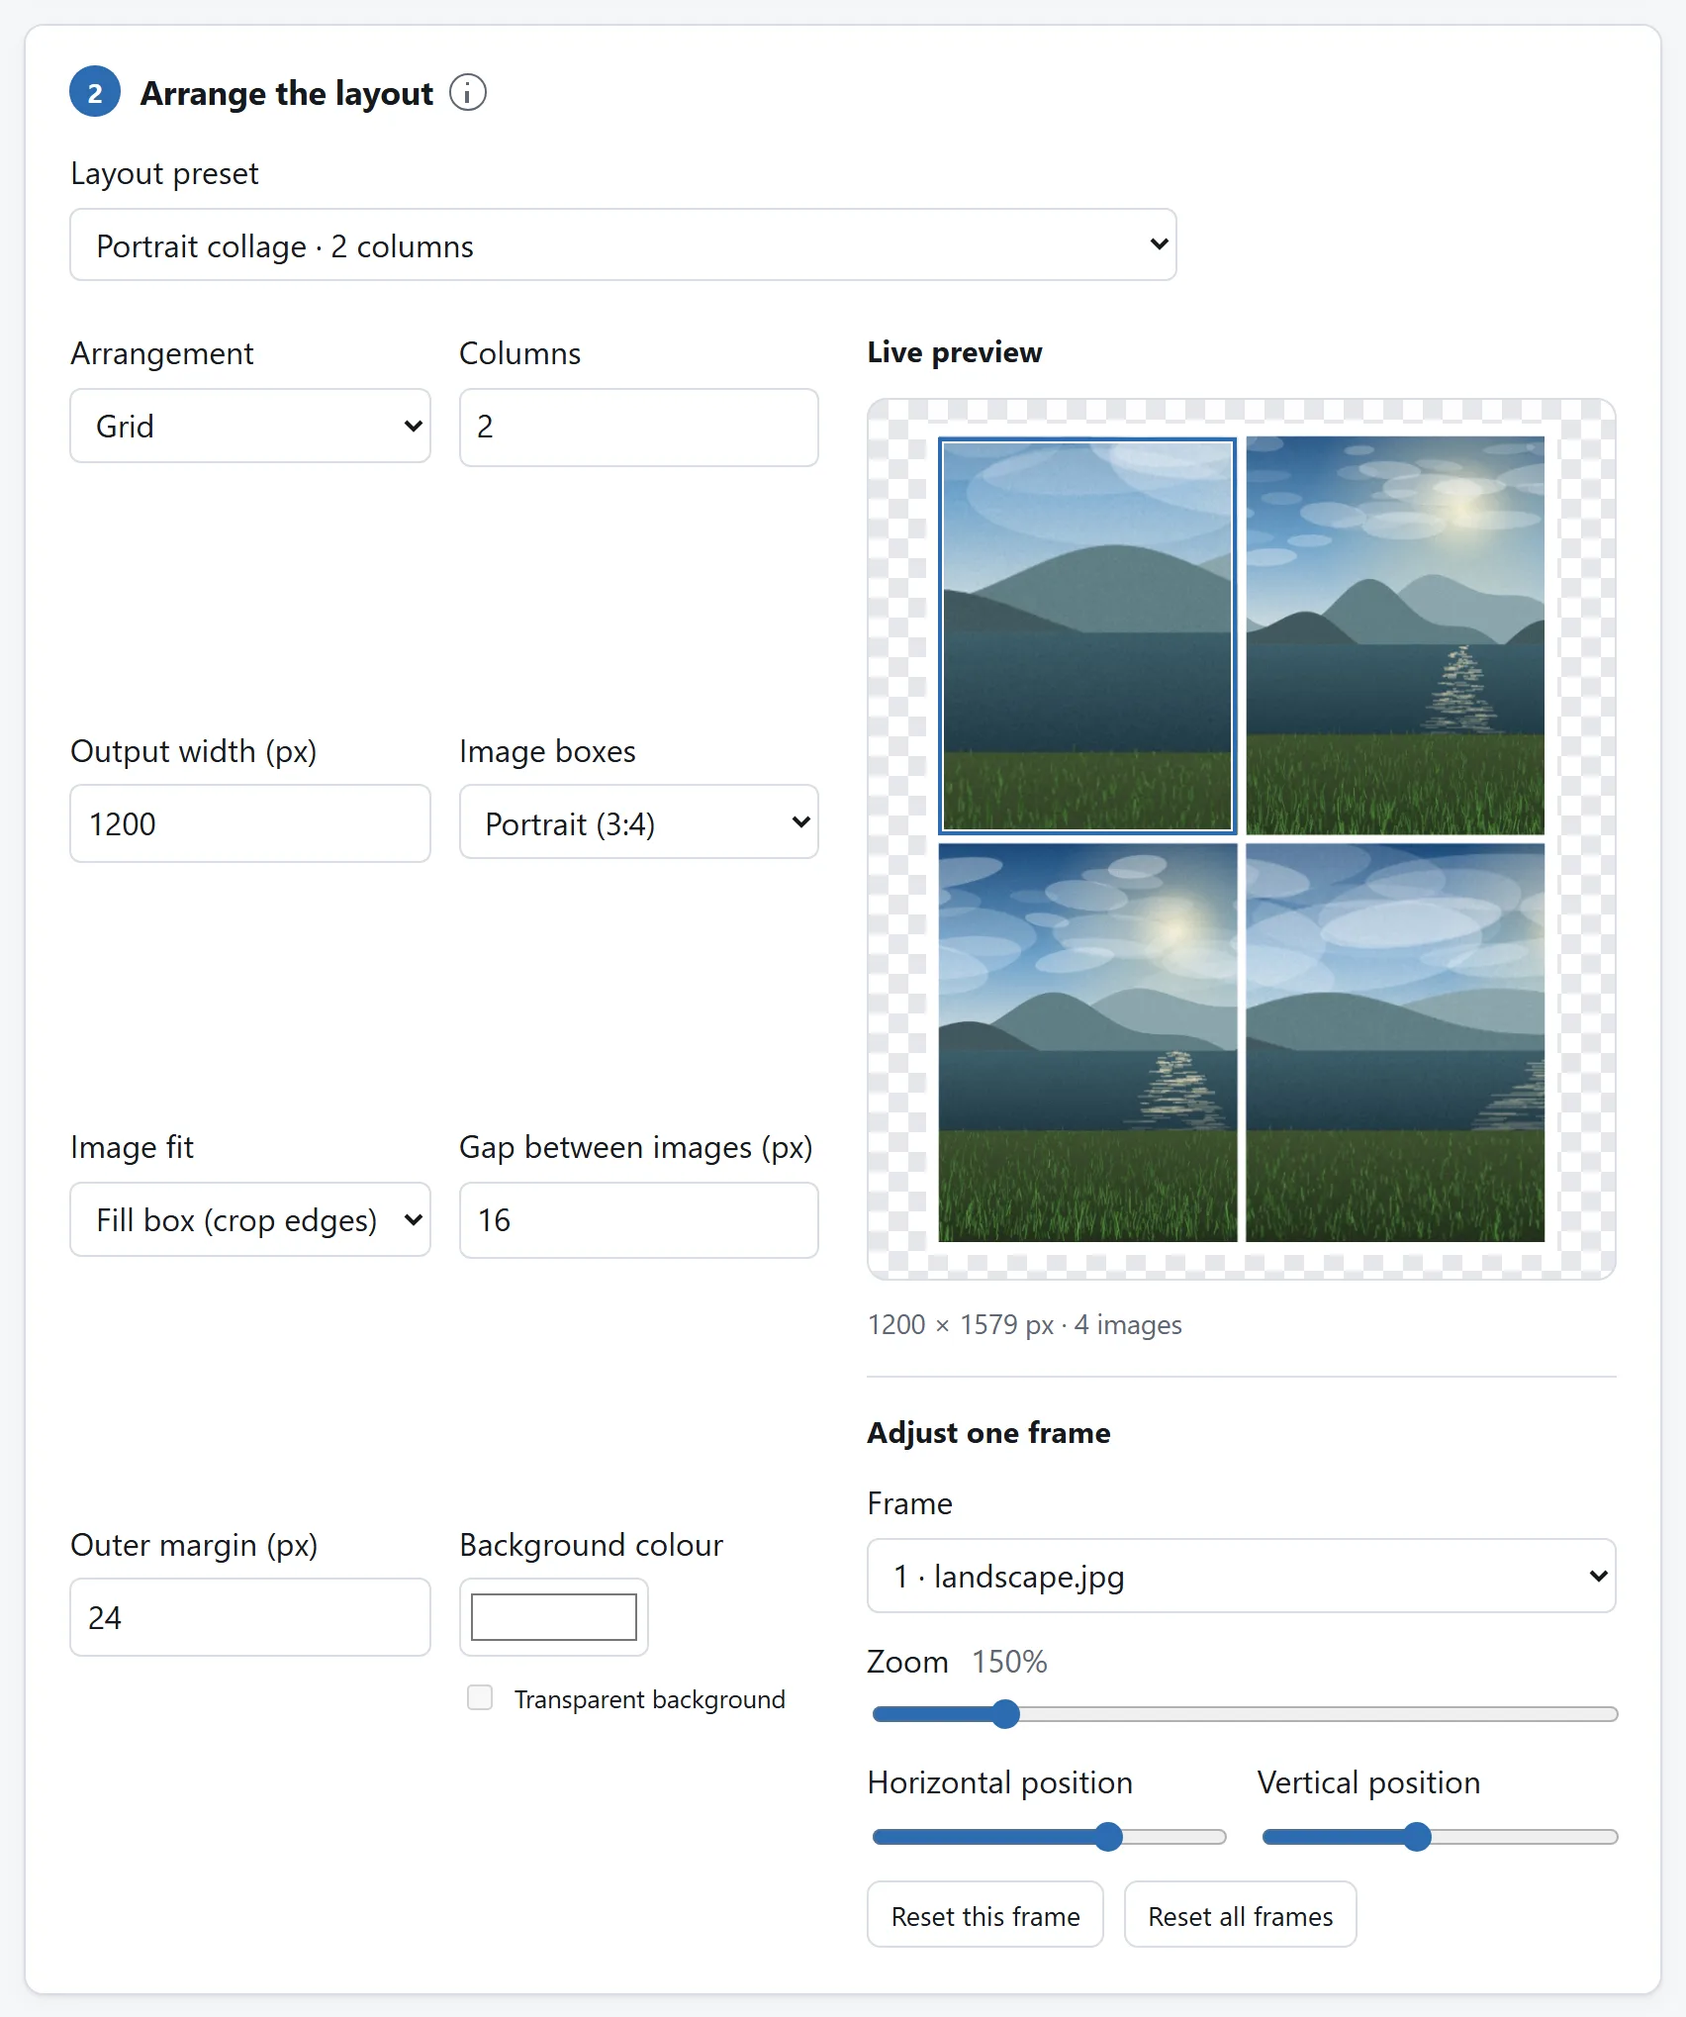
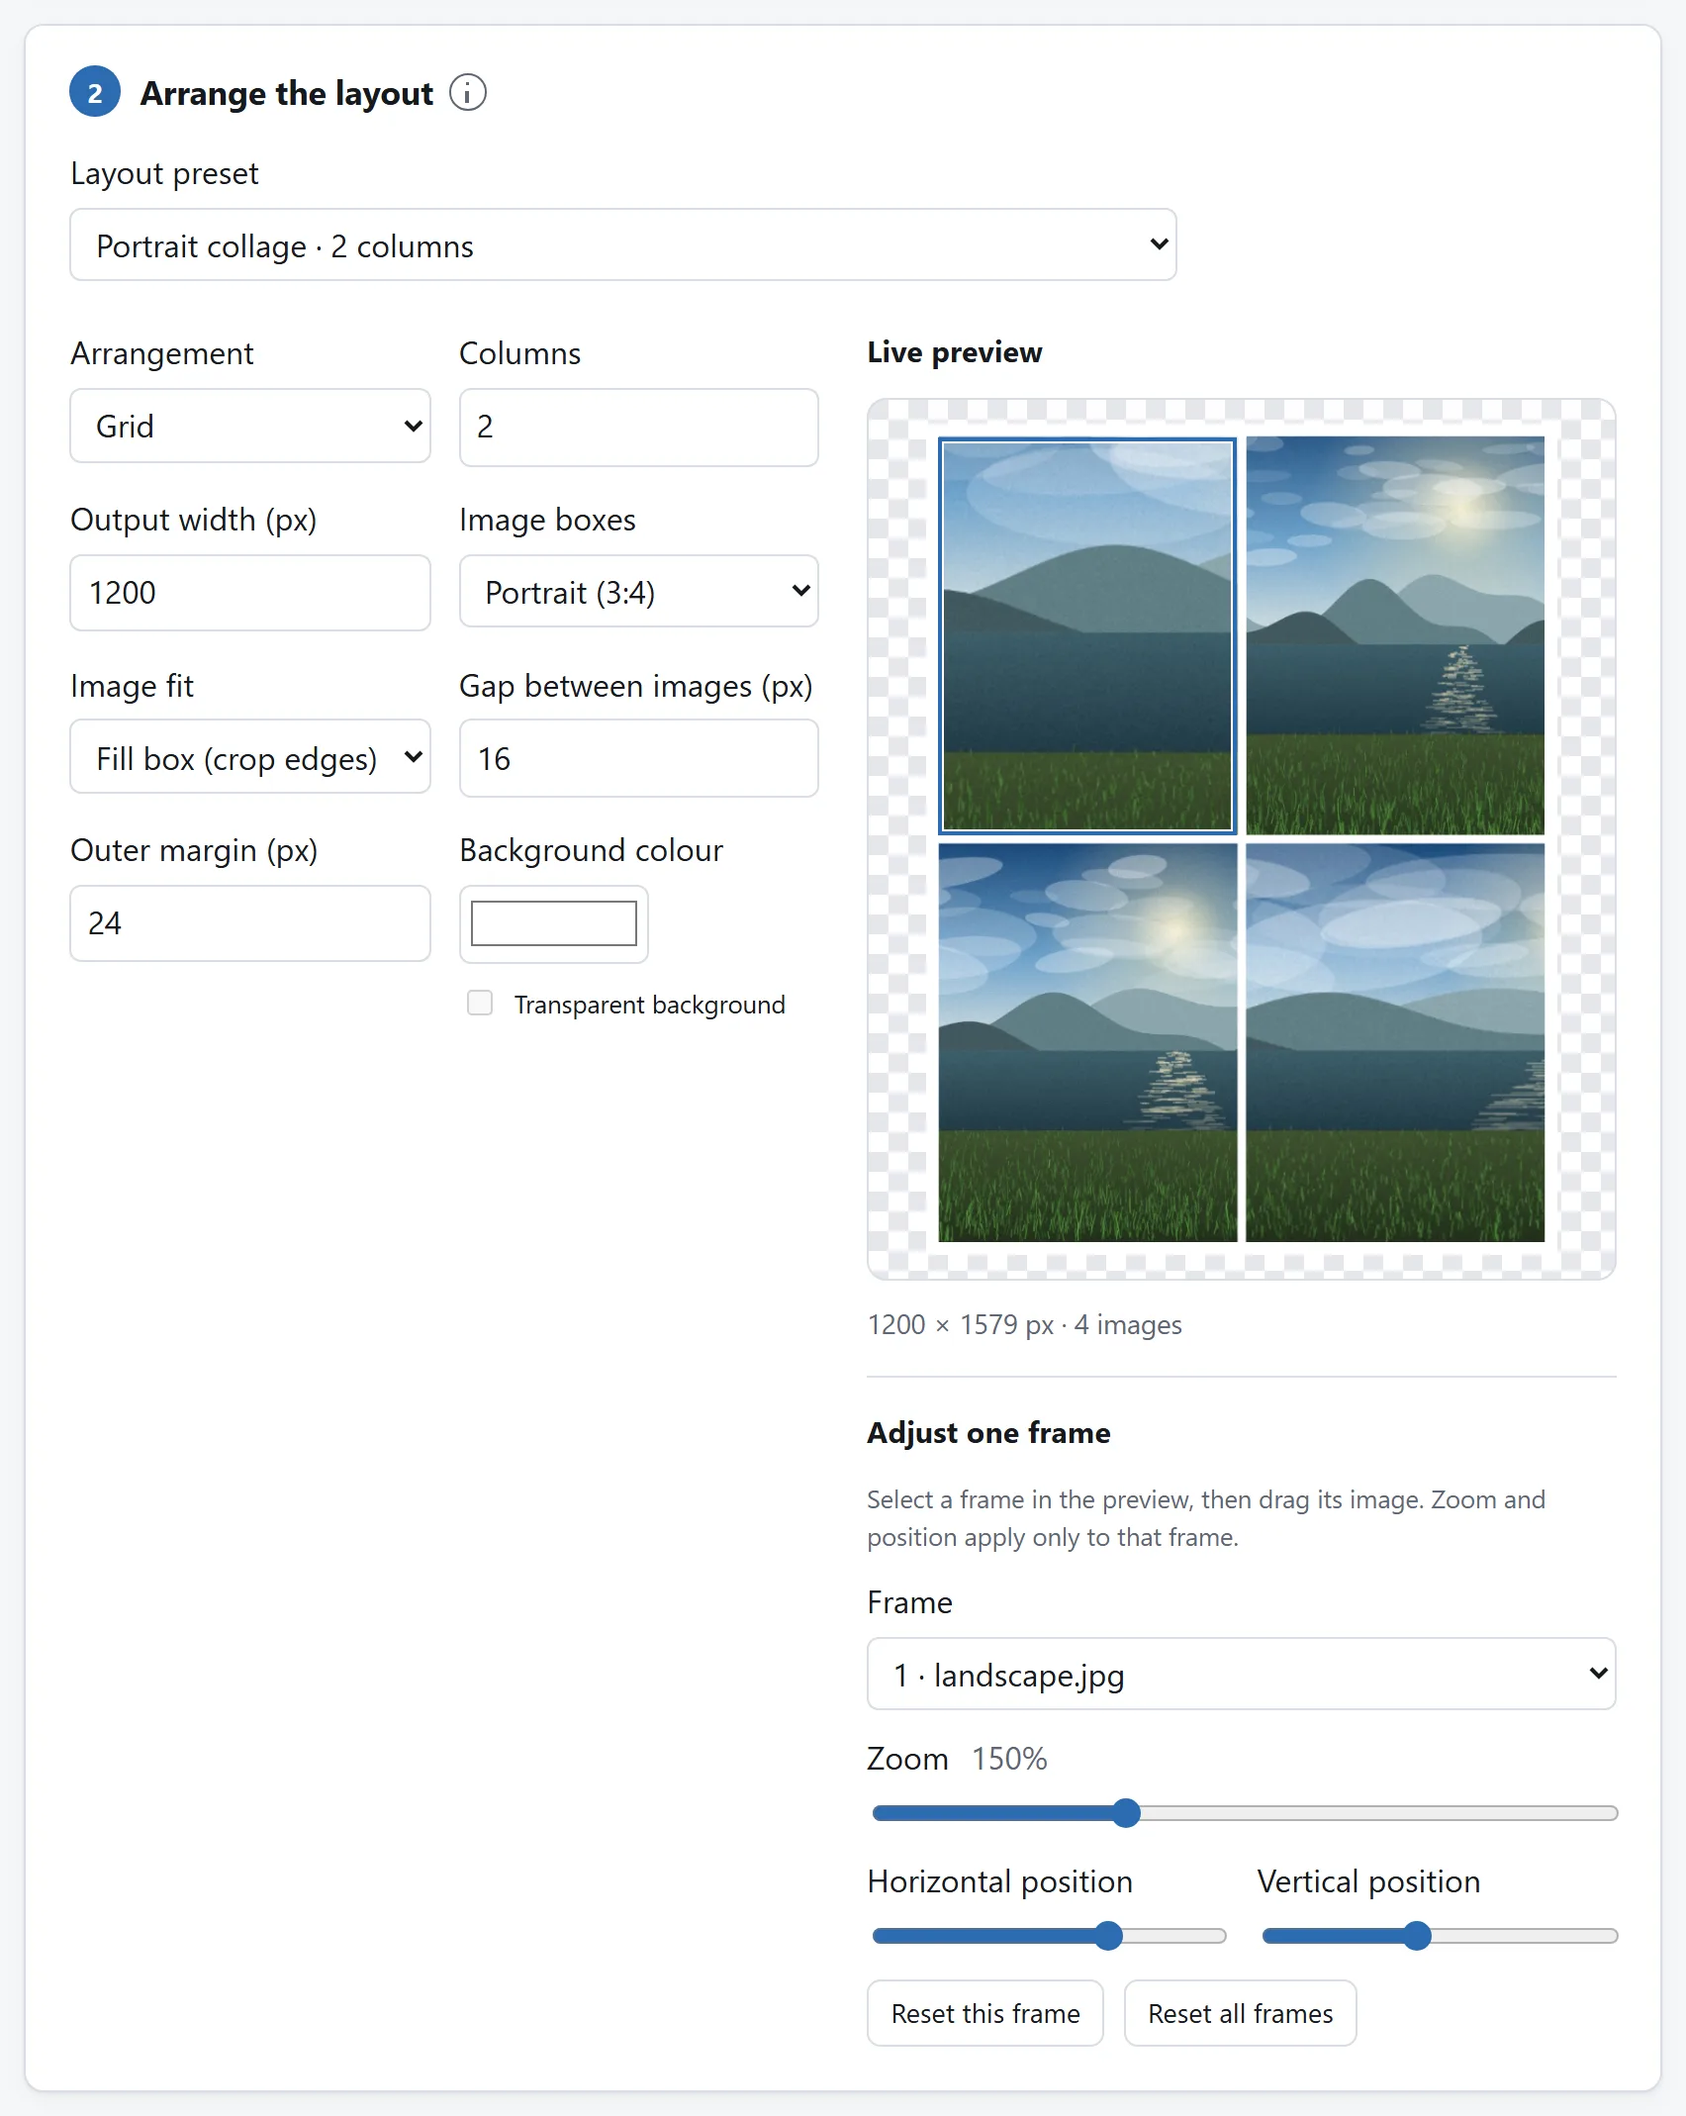
Allow each image to shrink and move within its frame.

diff --git a/tests/js/image-layout.test.js b/tests/js/image-layout.test.js
@@ -7,7 +7,7 @@
 import test from 'node:test';
 import assert from 'node:assert/strict';
 import {
-  MAX_PIXELS, MAX_SIDE, MAX_ZOOM, arrange, imagePlacement, drawImageInCell, renderLayout,
+  MAX_PIXELS, MAX_SIDE, MIN_ZOOM, MAX_ZOOM, arrange, imagePlacement, drawImageInCell, renderLayout,
 } from '../../tools/image-layout/src/arrange.js';
 
 const landscape = { width: 200, height: 100 };
@@ -173,14 +173,55 @@ test('panning reaches either cropped edge without exposing an empty strip', () =
   assert.equal(bottom.y + bottom.height, cell.y + cell.height);
 });
 
-test('contain keeps spare space centred until zoom creates a crop', () => {
+test('contain can position a whole image in spare space and a crop along overflowing axes', () => {
   const cell = { x: 0, y: 0, width: 100, height: 100 };
   assert.deepEqual(imagePlacement(landscape, cell, 'contain', { panX: 1, panY: -1 }),
-    { x: 0, y: 25, width: 100, height: 50, panRangeX: 0, panRangeY: 0 });
+    { x: 0, y: 0, width: 100, height: 50, panRangeX: 0, panRangeY: 25 });
   assert.deepEqual(imagePlacement(landscape, cell, 'contain', { zoom: 1.5, panX: -1, panY: 1 }),
-    { x: -50, y: 12.5, width: 150, height: 75, panRangeX: 25, panRangeY: 0 });
+    { x: -50, y: 25, width: 150, height: 75, panRangeX: 25, panRangeY: 12.5 });
   assert.deepEqual(imagePlacement(landscape, cell, 'contain', { zoom: 3, panX: 1, panY: -1 }),
     { x: 0, y: -50, width: 300, height: 150, panRangeX: 100, panRangeY: 25 });
+});
+
+test('zooming out from contain or cover reveals centred space within the same clipped frame', () => {
+  const cell = { x: 10, y: 20, width: 100, height: 100 };
+  for (const [fit, expected] of [
+    ['contain', { x: 35, y: 57.5, width: 50, height: 25, panRangeX: 25, panRangeY: 37.5 }],
+    ['cover', { x: 10, y: 45, width: 100, height: 50, panRangeX: 0, panRangeY: 25 }],
+  ]) {
+    const transform = { zoom: 0.5 };
+    assert.deepEqual(imagePlacement(landscape, cell, fit, transform), expected);
+    const ctx = recorder();
+    drawImageInCell(ctx, landscape, cell, fit, transform);
+    assert.deepEqual(ctx.calls, [
+      ['save'], ['beginPath'], ['rect', 10, 20, 100, 100], ['clip'],
+      ['drawImage', landscape, expected.x, expected.y, expected.width, expected.height], ['restore'],
+    ]);
+  }
+  assert.deepEqual(imagePlacement(square, cell, 'cover', { zoom: MIN_ZOOM }),
+    { x: 47.5, y: 57.5, width: 25, height: 25, panRangeX: 37.5, panRangeY: 37.5 });
+});
+
+test('zoomed-out pictures can move to opposite frame edges while staying entirely inside', () => {
+  const cell = { x: 10, y: 20, width: 100, height: 100 };
+  for (const [image, fit, zoom] of [
+    [landscape, 'contain', 0.5], [landscape, 'cover', 0.5], [square, 'cover', MIN_ZOOM],
+  ]) {
+    const start = imagePlacement(image, cell, fit, { zoom, panX: -1, panY: -1 });
+    const end = imagePlacement(image, cell, fit, { zoom, panX: 1, panY: 1 });
+    assert.equal(start.x, cell.x);
+    assert.equal(start.y, cell.y);
+    assert.equal(end.x + end.width, cell.x + cell.width);
+    assert.equal(end.y + end.height, cell.y + cell.height);
+    assert.ok(start.width <= cell.width && start.height <= cell.height);
+  }
+});
+
+test('an insignificant difference from the frame does not produce a draggable axis', () => {
+  const placement = imagePlacement(square,
+    { x: 0, y: 0, width: 100, height: 100 }, 'cover', { zoom: 1 + 1e-9, panX: 1, panY: -1 });
+  assert.equal(placement.panRangeX, 0);
+  assert.equal(placement.panRangeY, 0);
 });
 
 test('zoom preserves aspect ratio and clips an independently adjusted frame', () => {
@@ -234,9 +275,10 @@ test('original-shape strips can zoom and pan without changing their frame geomet
 });
 
 test('invalid adjustments are rejected before a drawing context is changed', () => {
+  assert.equal(MIN_ZOOM, 0.25);
   assert.equal(MAX_ZOOM, 4);
   const cell = { x: 0, y: 0, width: 100, height: 100 };
-  for (const transform of [null, [], { zoom: 0.99 }, { zoom: 4.01 }, { zoom: NaN },
+  for (const transform of [null, [], { zoom: 0.24 }, { zoom: 4.01 }, { zoom: NaN },
     { zoom: Infinity }, { zoom: '2' }, { panX: -1.01 }, { panY: 1.01 }, { panX: NaN }]) {
     const ctx = recorder();
     assert.throws(() => drawImageInCell(ctx, square, cell, 'contain', transform), /errorSettings/);
@@ -316,8 +358,20 @@ test('an export snapshots order, settings and individual crops and closes each b
 test('a transparent export leaves the gaps and margins unpainted', async () => {
   await withCanvas(async ({ ctx }) => {
     globalThis.createImageBitmap = async () => ({ ...square, close() {} });
-    await renderLayout([{ ...square, file: null }], { ...exportSettings, transparent: true });
+    await renderLayout([{ ...square, file: null, transform: { zoom: 0.5 } }],
+      { ...exportSettings, transparent: true });
     assert.equal(ctx.calls.some((call) => call[0] === 'fillRect'), false);
+    assert.deepEqual(ctx.calls.find((call) => call[0] === 'drawImage').slice(2), [60, 60, 100, 100]);
+  });
+});
+
+test('zooming out exposes the chosen export background around the smaller picture', async () => {
+  await withCanvas(async ({ ctx }) => {
+    globalThis.createImageBitmap = async () => ({ ...square, close() {} });
+    await renderLayout([{ ...square, file: null, transform: { zoom: 0.5 } }], exportSettings);
+    assert.deepEqual(ctx.calls.find((call) => call[0] === 'fillRect'),
+      ['fillRect', '#123456', 0, 0, 220, 220]);
+    assert.deepEqual(ctx.calls.find((call) => call[0] === 'drawImage').slice(2), [60, 60, 100, 100]);
   });
 });
 

diff --git a/tools/image-layout/src/arrange.js b/tools/image-layout/src/arrange.js
@@ -11,6 +11,7 @@ import { throwIfAborted } from './shared/errors.js';
 // picture repeated in a tall strip can otherwise allocate gigabytes at once.
 export const MAX_SIDE = 8192;
 export const MAX_PIXELS = 32_000_000;
+export const MIN_ZOOM = 0.25;
 export const MAX_ZOOM = 4;
 
 const RATIOS = { square: 1, landscape: 4 / 3, portrait: 3 / 4 };
@@ -103,8 +104,9 @@ export function arrange(items, settings) {
 
 /**
  * Pan is a fraction of the distance from the centred picture to either edge.
- * Keeping it independent of output pixels makes a crop survive a width change,
- * and leaves a smaller picture centred until zoom creates something to pan.
+ * Keeping it independent of output pixels makes a crop survive a width change.
+ * A smaller picture moves within the frame; a larger one moves only far enough
+ * to reach its cropped edge, so positioning never hides more of the picture.
  */
 export function imagePlacement(image, cell, fit = 'contain', transform = {}) {
   if (!['contain', 'cover'].includes(fit)) fail('errorSettings');
@@ -112,7 +114,7 @@ export function imagePlacement(image, cell, fit = 'contain', transform = {}) {
     fail('errorSettings');
   }
   const { zoom = 1, panX = 0, panY = 0 } = transform;
-  if (!Number.isFinite(zoom) || zoom < 1 || zoom > MAX_ZOOM
+  if (!Number.isFinite(zoom) || zoom < MIN_ZOOM || zoom > MAX_ZOOM
       || !Number.isFinite(panX) || Math.abs(panX) > 1
       || !Number.isFinite(panY) || Math.abs(panY) > 1
       || !Number.isFinite(cell.x) || !Number.isFinite(cell.y)
@@ -127,8 +129,10 @@ export function imagePlacement(image, cell, fit = 'contain', transform = {}) {
     : Math.min(cell.width / sourceWidth, cell.height / sourceHeight);
   const width = sourceWidth * scale * zoom;
   const height = sourceHeight * scale * zoom;
-  const panRangeX = Math.max(0, (width - cell.width) / 2);
-  const panRangeY = Math.max(0, (height - cell.height) / 2);
+  const rangeX = Math.abs(width - cell.width) / 2;
+  const rangeY = Math.abs(height - cell.height) / 2;
+  const panRangeX = rangeX < 1e-6 ? 0 : rangeX;
+  const panRangeY = rangeY < 1e-6 ? 0 : rangeY;
   return {
     x: cell.x + (cell.width - width) / 2 + panX * panRangeX,
     y: cell.y + (cell.height - height) / 2 + panY * panRangeY,

diff --git a/pages/guides/arrange-images/body.html b/pages/guides/arrange-images/body.html
@@ -74,6 +74,13 @@
       The controls provide the same adjustments by keyboard.
     </p>
     <p>
+      A position control is available when the picture and frame have different
+      sizes on that axis. If the picture is smaller, move it through the unused
+      space while keeping the whole picture inside the frame. If it is larger,
+      move it to choose which part is visible. This also lets you position a
+      picture after zooming out, instead of leaving it in the centre.
+    </p>
+    <p>
       Each picture keeps its own framing, even when you move its tile to a
       different place. Its neighbours keep theirs. Use <strong>Reset this frame</strong>
       to return the selected picture to its starting position and 100% zoom.
@@ -81,10 +88,12 @@
       full layout again.
     </p>
     <p>
-      Zooming in crops more of the original and makes the remaining detail
-      larger. It cannot add detail that was never there, so a small image may
-      become soft when it is zoomed tightly. The preview and the download use
-      the same framing; inspect the finished file for sharpness.
+      The selected fit is the starting point at 100% zoom. You can zoom from
+      25% to 400%: below 100%, the picture shrinks inside its cell and shows more
+      background; zooming in enlarges it and can crop its edges. Enlargement
+      cannot add detail that was never there, so a small image may become soft
+      when it is zoomed tightly. The preview and the download use the same
+      framing; inspect the finished file for sharpness.
     </p>
   </section>
 

diff --git a/tools/image-layout/body.html b/tools/image-layout/body.html
@@ -101,8 +101,8 @@
           </div>
           <div class="field">
             <label for="frame-zoom">Zoom <output id="frame-zoom-label" for="frame-zoom">100%</output></label>
-            <input type="range" id="frame-zoom" min="100" max="400" step="1" value="100">
-            <p class="field-note">100% uses the Image fit setting. Zoom in to crop closer, or zoom out to return to that fit.</p>
+            <input type="range" id="frame-zoom" min="25" max="400" step="1" value="100">
+            <p class="field-note">100% uses the Image fit setting. Zoom in to crop closer, or zoom out to show more background. Each frame supports 25%–400%.</p>
           </div>
           <div class="frame-position">
             <div class="field">
@@ -114,7 +114,7 @@
               <input type="range" id="frame-pan-y" min="-100" max="100" step="1" value="0">
             </div>
           </div>
-          <p class="field-note">Position becomes available when the image extends beyond its frame.</p>
+          <p class="field-note">A position slider is available whenever the image and frame have different sizes.</p>
           <div class="layout-actions">
             <button type="button" id="frame-reset" class="ghost">Reset this frame</button>
             <button type="button" id="frames-reset" class="ghost">Reset all frames</button>

diff --git a/tools/image-layout/README.md b/tools/image-layout/README.md
@@ -22,8 +22,8 @@ proportions. Original proportions mean a common height across a horizontal
 strip and a common width down a vertical strip, rather than distortion to make
 different-shaped sources occupy identical rectangles.
 
-At 100% zoom, contain shows the whole source, centred in the cell, with
-background around it where the shapes differ. Cover starts with a centred crop
+At 100% zoom, contain shows the whole source and starts centred in the cell,
+with background around it where the shapes differ. Cover starts with a centred crop
 of the overflow; per-image pan and zoom let the visitor choose a different
 framing.
 There is no stretch mode: making a contact sheet does not warrant quietly
@@ -50,7 +50,17 @@ the choices are conveniences rather than a separate kind of document.
 
 Each image can be reframed with its own pan and zoom. Dragging changes the part
 shown inside that image's cell; the position and zoom controls provide the same
-adjustments by keyboard. A reset brings that image back to its initial framing.
+adjustments by keyboard. The fit is the 100% baseline, with zoom available from
+25% to 400%. Zooming out below 100% shrinks the picture inside its cell and
+shows more background; zooming in enlarges it and can crop its edges. A reset
+brings that image back to its starting position and 100% zoom.
+
+Pan is available on each axis where the image and cell have different sizes.
+For a larger image it selects which part is cropped; for a smaller image it
+moves the picture through the unused space, bounded so the whole picture stays
+inside the cell. A letterboxed picture therefore starts centred but can be
+aligned toward an edge without changing its size.
+
 The framing belongs to the image, so it moves with the tile when the list is
 reordered. Preview and export use the same framing, and zoom never changes the
 cell size or moves neighbouring images. Enlarging the source spends the detail
@@ -106,7 +116,7 @@ or encode cannot be interrupted by this page.
 
 ## The output is a new image, not a container for the originals
 
-Every source is drawn to an 8-bit SDR canvas. Scaling and centre-cropping change
+Every source is drawn to an 8-bit SDR canvas. Scaling and cropping change
 the pixels, JPEG and WebP may add compression loss, and colour, HDR or partly
 transparent channel values can change in the browser's canvas conversion.
 PNG is lossless relative to the finished canvas rather than an archival copy
